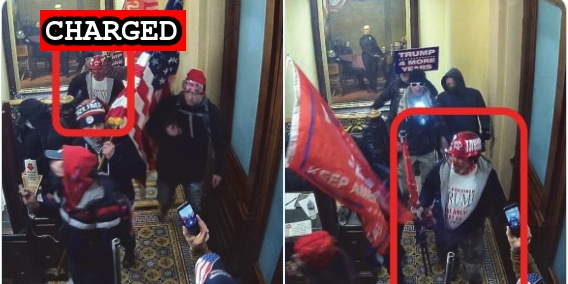
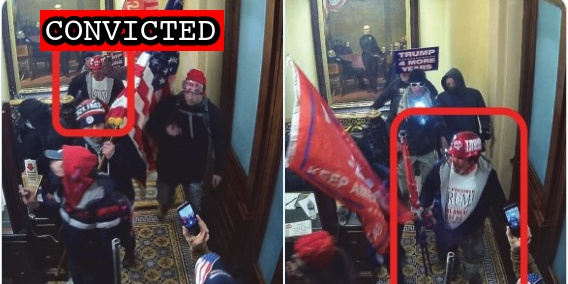
New guilty plea

Changed region(s): [[0.0599, 0.0282, 0.419, 0.1972]]

diff --git a/docs/_suspects/timothy-omalley.md b/docs/_suspects/timothy-omalley.md
@@ -4,15 +4,15 @@ lastName: O'Malley
 hashtag: TimothyOMalley
 aka:
 residence: FLorida
-status: Charged
+status: Convicted
 date: 2021-06-28
 charged: 2021-06-28
 indicted:
-convicted:
+convicted: 2021-12-15
 sentenced:
 dismissed:
 deceased:
-plea_hearing:
+plea_hearing: 2021-12-15
 sentencing:
 age:
 occupation:
@@ -34,8 +34,11 @@ published: true
 caseNumber: 1:21-mj-504
 videos:
 charges:
+- code: 18 USC § 5104(e)(2)(G)
+  title: Parading, demonstrating or picketing in a Capitol building
+  url: https://www.law.cornell.edu/uscode/text/40/5104
+  felony: false
 sentence:
 ---
-
 - [News Report](https://www.wkrg.com/northwest-florida/okaloosa-county-man-charged-with-taking-part-in-u-s-capitol-riot/)
 - [Statement of Facts](https://www.justice.gov/usao-dc/case-multi-defendant/file/1408321/download)

diff --git a/docs/_suspects/zachary-martin.md b/docs/_suspects/zachary-martin.md
@@ -8,11 +8,11 @@ status: Charged
 date: 2021-01-28
 charged: 2021-01-28
 indicted:
-convicted: 
-sentenced: 
-dismissed: 
+convicted:
+sentenced:
+dismissed:
 deceased:
-plea_hearing:
+plea_hearing: 2021-12-23
 sentencing:
 age:
 occupation:
@@ -36,6 +36,7 @@ videos:
 charges:
 sentence:
 ---
+
 - [News Report](https://www.news-leader.com/story/news/local/missouri/2021/01/28/u-s-capitol-riots-document-shows-why-springfield-man-zachary-martin-arrested/4301430001/)
 - [Complaint](https://www.justice.gov/opa/page/file/1361576/download)
 - [Statement of Facts](https://www.justice.gov/opa/page/file/1361576/download)

diff --git a/docs/_suspects/michael-quick.md b/docs/_suspects/michael-quick.md
@@ -8,11 +8,11 @@ status: Charged
 date: 2021-02-12
 charged: 2021-02-12
 indicted:
-convicted: 
-sentenced: 
-dismissed: 
+convicted:
+sentenced:
+dismissed:
 deceased:
-plea_hearing:
+plea_hearing: 2021-12-23
 sentencing:
 age:
 occupation:
@@ -36,6 +36,7 @@ videos:
 charges:
 sentence:
 ---
+
 - [News Report](https://www.ky3.com/2021/02/12/fbi-arrests-2-for-springfield-wanted-in-capitol-riot-in-january/)
 - [Complaint](https://extremism.gwu.edu/sites/g/files/zaxdzs2191/f/Michael%20Quick%20Complaint.pdf)
 - [Statement of Facts](https://www.justice.gov/usao-dc/case-multi-defendant/file/1372086/download)

diff --git a/docs/_suspects/stephen-quick.md b/docs/_suspects/stephen-quick.md
@@ -8,11 +8,11 @@ status: Charged
 date: 2021-02-12
 charged: 2021-02-12
 indicted:
-convicted: 
-sentenced: 
-dismissed: 
+convicted:
+sentenced:
+dismissed:
 deceased:
-plea_hearing:
+plea_hearing: 2021-12-23
 sentencing:
 age:
 occupation:
@@ -36,6 +36,7 @@ videos:
 charges:
 sentence:
 ---
+
 - [News Report](https://www.ky3.com/2021/02/12/fbi-arrests-2-for-springfield-wanted-in-capitol-riot-in-january/)
 - [Complaint](https://extremism.gwu.edu/sites/g/files/zaxdzs2191/f/Stephen%20Quick%20Complaint.pdf)
 - [Statement of Facts](https://www.justice.gov/usao-dc/case-multi-defendant/file/1372096/download)

diff --git a/docs/_suspects/kari-kelley.md b/docs/_suspects/kari-kelley.md
@@ -13,7 +13,7 @@ sentenced:
 dismissed:
 deceased:
 plea_hearing:
-sentencing:
+sentencing: 2021-12-23
 age: 40
 occupation: Insurance Adjuster
 affiliations:
@@ -36,6 +36,7 @@ videos:
 charges:
 sentence:
 ---
+
 - [News Report](https://www.msn.com/en-us/news/us/alabama-woman-accused-of-climbing-through-capitol-window-during-dc-riot/ar-BB1dQ3au)
 - [Complaint](https://www.justice.gov/usao-dc/case-multi-defendant/file/1379286/download)
 - [Affidavit](https://www.justice.gov/usao-dc/case-multi-defendant/file/1379291/download)
